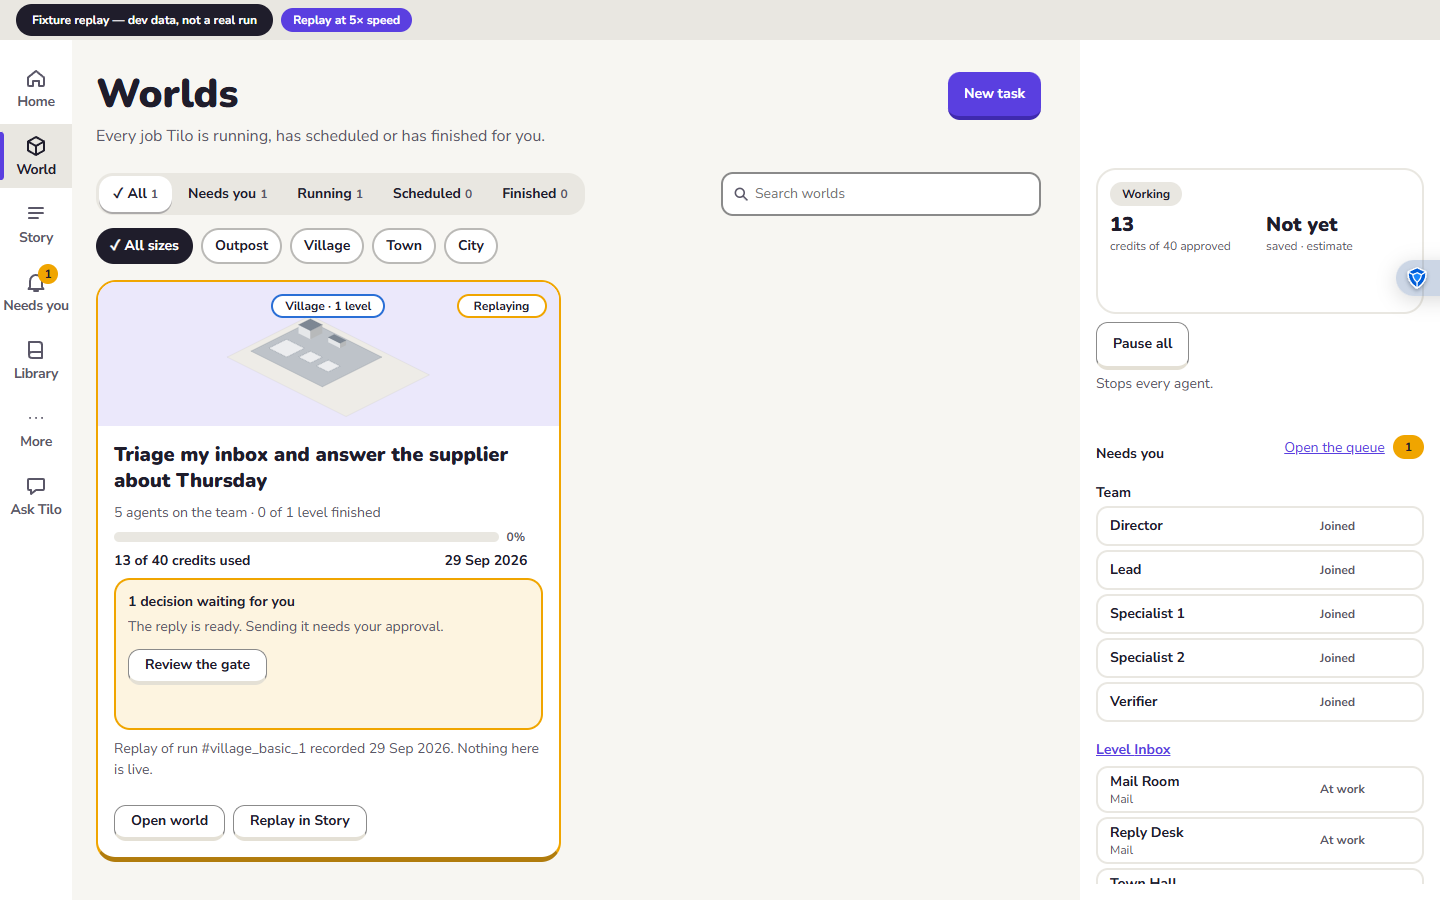
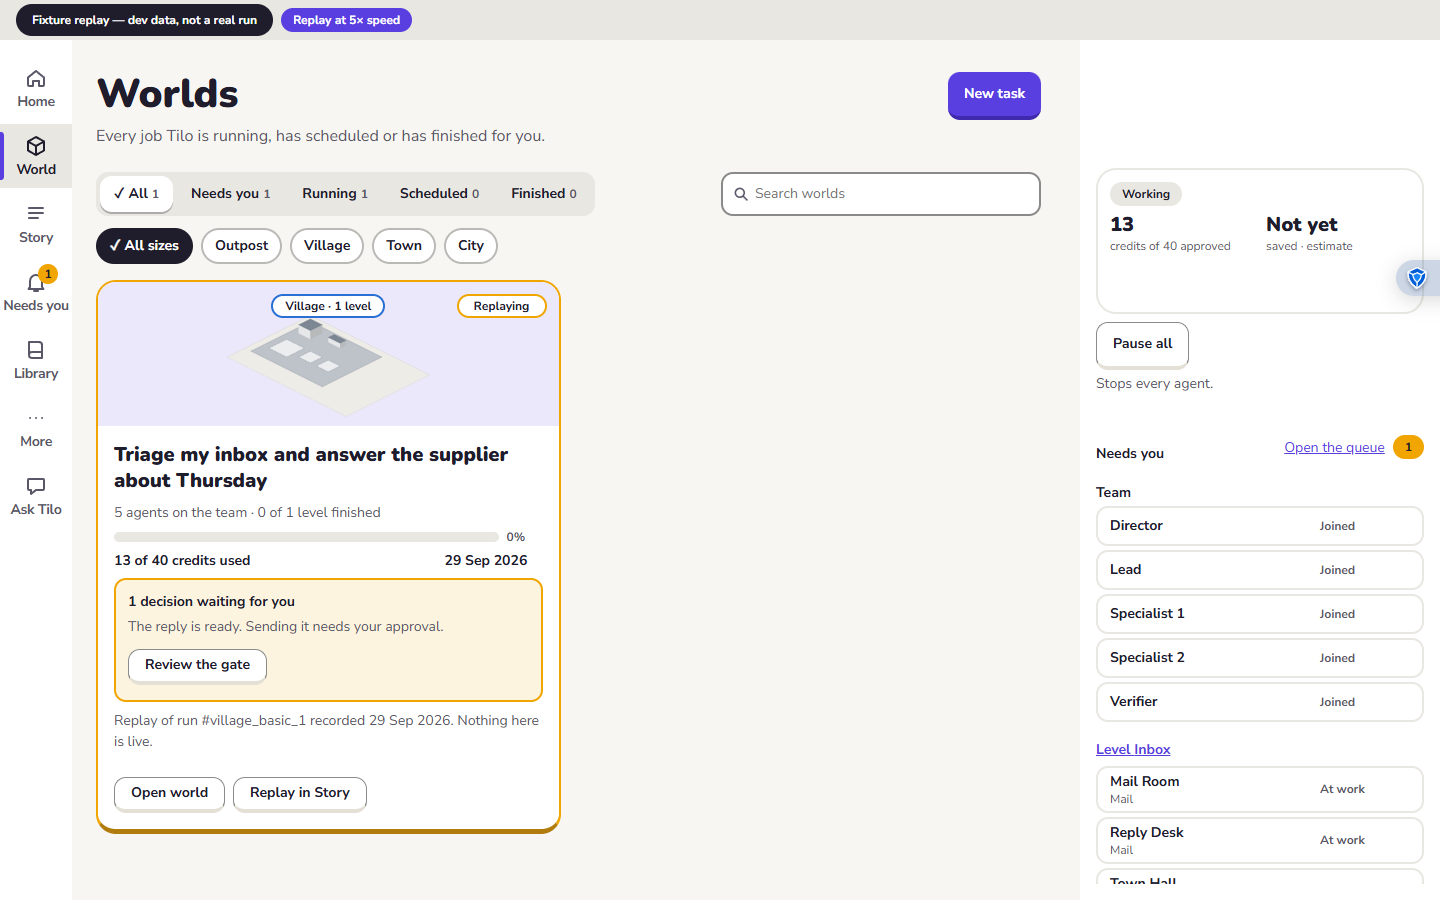
feat(web): S-14 phone filters behind a Filters control, trimmed decision box, tier tints (#227)
Under 768 px the bar is two rows (status tabs that scroll sideways, then search and a 44 px
Filters: <size> button); the size chips open as a panel over the list with aria-expanded and
aria-controls, Escape and a choice close it and return focus, nothing shifts. The decision box is
7.75rem on desktop and 9.5rem on a phone (measured, 2-line clamp). Radii and gaps use tokens;
outpost and city thumbnails get role-token tints.

Refs #227 (G1, S-14)
Req: UX-1

diff --git a/apps/web/src/styles/app.css b/apps/web/src/styles/app.css
@@ -1405,14 +1405,14 @@ button.row {
    white tile with the card lip and a tick (shape, not colour alone). */
 .filter-chips.status-tabs {
   flex-wrap: wrap;
-  gap: 2px;
-  padding: 3px;
-  border-radius: 17px;
+  gap: var(--space-4);
+  padding: var(--space-4);
+  border-radius: var(--radius-controls);
   background: var(--color-surface-2);
 }
 .status-tabs .filter-chip span {
   border-color: transparent;
-  border-radius: 14px;
+  border-radius: var(--radius-controls);
   background: transparent;
 }
 .status-tabs .filter-chip span b {
@@ -1430,6 +1430,72 @@ button.row {
 }
 .size-chips .filter-chip span {
   border-color: color-mix(in srgb, var(--color-surface-2) 50%, var(--color-ink-3));
+}
+.size-toggle {
+  display: none; /* a phone control: from 768 px the size chips are always shown */
+}
+@media (max-width: 767px) {
+  /* The bar is two rows: the status tabs on one row (they scroll sideways if the words do not fit),
+     then the search and the Filters button. The size chips open as a panel over the list, so
+     opening them moves nothing. */
+  .filter-bar {
+    position: relative;
+    gap: var(--space-8);
+  }
+  .filter-chips.status-tabs {
+    flex: 1 1 100%;
+    min-width: 0; /* a fieldset would otherwise grow to its content and push the page sideways */
+    flex-wrap: nowrap;
+    overflow-x: auto;
+    scrollbar-width: none;
+  }
+  .status-tabs .filter-chip span {
+    padding: 0 var(--space-8);
+    white-space: nowrap;
+  }
+  .search-field {
+    flex: 1 1 0;
+    min-width: 0;
+    max-width: none;
+    margin-left: 0;
+  }
+  .size-toggle {
+    display: inline-flex;
+    flex: none;
+    align-items: center;
+    box-sizing: border-box;
+    min-height: 44px;
+    padding: 0 var(--space-12);
+    border: 2px solid var(--color-ink-3);
+    border-radius: var(--radius-controls);
+    background: var(--color-surface-1);
+    color: var(--color-ink-1);
+    font: 700 var(--text-14) / 1 var(--font-ui);
+    cursor: pointer;
+  }
+  .size-toggle[aria-expanded="true"] {
+    border-color: var(--color-ink-1);
+  }
+  .size-toggle:focus-visible {
+    outline: 3px solid var(--color-brand-primary);
+    outline-offset: 2px;
+  }
+  .filter-chips.size-chips {
+    display: none;
+    position: absolute;
+    top: 100%;
+    right: 0;
+    left: 0;
+    z-index: 5;
+    padding: var(--space-12);
+    border: 2px solid var(--color-surface-2);
+    border-radius: var(--radius-controls);
+    background: var(--color-surface-1);
+    box-shadow: 0 4px 0 0 color-mix(in srgb, var(--color-surface-2) 70%, var(--color-ink-1));
+  }
+  .filter-chips.size-chips[data-open="true"] {
+    display: flex;
+  }
 }
 .world-grid .empty-state {
   grid-column: 1 / -1;
@@ -1468,6 +1534,12 @@ button.row {
 .world-card[data-tier="town"] .world-thumb {
   background: color-mix(in srgb, var(--color-district-research) 16%, var(--color-surface-1));
 }
+.world-card[data-tier="city"] .world-thumb {
+  background: color-mix(in srgb, var(--color-district-hall) 16%, var(--color-surface-1));
+}
+.world-card[data-tier="outpost"] .world-thumb {
+  background: color-mix(in srgb, var(--color-district-accounts) 16%, var(--color-surface-1));
+}
 .world-progress {
   display: flex;
   align-items: center;
@@ -1487,10 +1559,15 @@ button.row {
   align-items: flex-start;
   gap: var(--space-4);
   box-sizing: border-box;
-  min-height: 9.5rem; /* a decision (two lines at most) and its link, or the calm line: the card never changes height */
+  min-height: 7.75rem; /* measured: a decision (two lines at most) and its link is 121 px at 1440; the calm line fits too */
   padding: var(--space-12);
   border: 2px solid var(--color-surface-2);
-  border-radius: 16px;
+  border-radius: var(--radius-controls);
+}
+@media (max-width: 767px) {
+  .world-decision {
+    min-height: 9.5rem; /* measured: 150 px, the phone link is 44 px high */
+  }
 }
 .world-decision[data-tone="needs"] {
   border-color: var(--color-signal-needs);

diff --git a/apps/web/src/screens/S_14.tsx b/apps/web/src/screens/S_14.tsx
@@ -5,7 +5,7 @@
 // status filters with counts, then world cards with a thumbnail, a size tag and a state pill on it,
 // a title, progress and a footer. Search and filters work on the worlds the client has, and every
 // count is computed from them: nothing is scheduled in this build, so Scheduled says 0.
-import { useState } from "react";
+import { useId, useRef, useState } from "react";
 import { useClient, useWorldKnown } from "../api/ClientProvider";
 import { deriveQueue } from "../needs-you/queue";
 import { reduce } from "../world/reducer";
@@ -54,6 +54,15 @@ export function S_14() {
   const [query, setQuery] = useState("");
   const [filter, setFilter] = useState<Filter>("all");
   const [sizeFilter, setSizeFilter] = useState<Size>("all");
+  // On a phone the size chips sit behind a Filters button and open as a panel over the list (no
+  // shift); from 768 px up they are always shown and the button is hidden.
+  const [sizesOpen, setSizesOpen] = useState(false);
+  const sizesId = useId();
+  const toggle = useRef<HTMLButtonElement>(null);
+  const closeSizes = () => {
+    setSizesOpen(false);
+    toggle.current?.focus();
+  };
   if (addressed !== null && !worldKnown) return <NotFound />; // a world the client does not know
   const first = events[0];
   const status = worldStatus(events);
@@ -84,7 +93,12 @@ export function S_14() {
       sub="Every job Tilo is running, has scheduled or has finished for you."
       action={<Primary label="New task" action={newTask} />}
     >
-      <div className="filter-bar">
+      <div
+        className="filter-bar"
+        onKeyDown={(e) => {
+          if (e.key === "Escape" && sizesOpen) closeSizes();
+        }}
+      >
         <fieldset className="filter-chips status-tabs">
           <legend className="visually-hidden">Filter by status</legend>
           {FILTERS.map((f) => (
@@ -116,7 +130,18 @@ export function S_14() {
             onChange={(e) => setQuery(e.target.value)}
           />
         </label>
-        <fieldset className="filter-chips size-chips">
+        <button
+          ref={toggle}
+          type="button"
+          className="size-toggle"
+          data-filter-control
+          aria-expanded={sizesOpen}
+          aria-controls={sizesId}
+          onClick={() => setSizesOpen(!sizesOpen)}
+        >
+          Filters: {SIZE_LABEL[sizeFilter]}
+        </button>
+        <fieldset id={sizesId} className="filter-chips size-chips" data-open={sizesOpen}>
           <legend className="visually-hidden">Filter by size</legend>
           {SIZES.map((s) => (
             <label key={s} className="filter-chip">
@@ -125,7 +150,10 @@ export function S_14() {
                 name="worlds-size"
                 value={s}
                 checked={sizeFilter === s}
-                onChange={() => setSizeFilter(s)}
+                onChange={() => {
+                  setSizeFilter(s);
+                  if (sizesOpen) closeSizes();
+                }}
               />
               <span>{SIZE_LABEL[s]}</span>
             </label>

diff --git a/apps/web/e2e/screens/worlds-list.spec.ts b/apps/web/e2e/screens/worlds-list.spec.ts
@@ -119,6 +119,41 @@ test("S_14 artboard size chips filter by the layout's tier, and All sizes lists 
   await expect(page.getByTestId("count-all")).toHaveText("1");
 });
 
+test("S_14 phone: a short filter bar, the first card's title above the bottom nav, size chips behind Filters", async ({
+  page,
+}) => {
+  test.setTimeout(90_000);
+  await page.setViewportSize(MOBILE);
+  await page.goto("/worlds?speed=100");
+  const card = page.getByTestId("world-card");
+  await expect(card).toContainText("Village · 1 level", { timeout: 20_000 });
+  const bar = await page.locator(".filter-bar").boundingBox();
+  expect(bar?.height).toBeLessThanOrEqual(130);
+  const title = await card.getByRole("heading", { level: 2 }).boundingBox();
+  const nav = await page.getByRole("navigation", { name: "Primary" }).boundingBox();
+  expect((title?.y ?? 0) + (title?.height ?? 0)).toBeLessThanOrEqual(nav?.y ?? 0);
+
+  const toggle = page.getByRole("button", { name: "Filters: All sizes" });
+  expect((await toggle.boundingBox())?.height).toBeGreaterThanOrEqual(44);
+  await expect(toggle).toHaveAttribute("aria-expanded", "false");
+  await expect(page.getByRole("radio", { name: "Village" })).toBeHidden();
+  const before = (await card.boundingBox())?.y;
+  await toggle.click();
+  await expect(toggle).toHaveAttribute("aria-expanded", "true");
+  await expect(page.getByRole("radio", { name: "Village" })).toBeVisible();
+  expect((await card.boundingBox())?.y).toBe(before); // the panel opens over the list: nothing moves
+  await page.keyboard.press("Escape");
+  await expect(toggle).toHaveAttribute("aria-expanded", "false");
+  await expect(toggle).toBeFocused();
+  await toggle.click();
+  await page.getByRole("radio", { name: "Village" }).check({ force: true });
+  await expect(page.getByRole("button", { name: "Filters: Village" })).toHaveAttribute(
+    "aria-expanded",
+    "false",
+  );
+  await expect(card).toBeVisible();
+});
+
 for (const [name, viewport] of [
   ["desktop", DESKTOP],
   ["mobile", MOBILE],

diff --git a/apps/web/e2e/support/screens.ts b/apps/web/e2e/support/screens.ts
@@ -17,10 +17,11 @@ export function watchConsole(page: Page): string[] {
  * (data-pause-control, FR-WLD-07) sends a request and is covered by world-pause.spec.ts; Stop all
  * autopilot (data-stop-control, FR-HIL-07) asks first and is covered by autopilot-stop.spec.ts. The
  * Ask Tilo launcher (data-assistant-control, FR-PA-12) opens the assistant panel and is covered by
- * assistant-panel.spec.ts. */
+ * assistant-panel.spec.ts. The S-14 phone Filters button (data-filter-control) opens the size
+ * chips and is covered by worlds-list.spec.ts. */
 export async function expectNoDeadControls(page: Page, scope = "main") {
   const buttons = page.locator(
-    `${scope} button:not(.primary):not([data-lens-control]):not([data-pause-control]):not([data-stop-control]):not([data-assistant-control])`,
+    `${scope} button:not(.primary):not([data-lens-control]):not([data-pause-control]):not([data-stop-control]):not([data-assistant-control]):not([data-filter-control])`,
   );
   for (let i = 0; i < (await buttons.count()); i++) {
     const b = buttons.nth(i);
